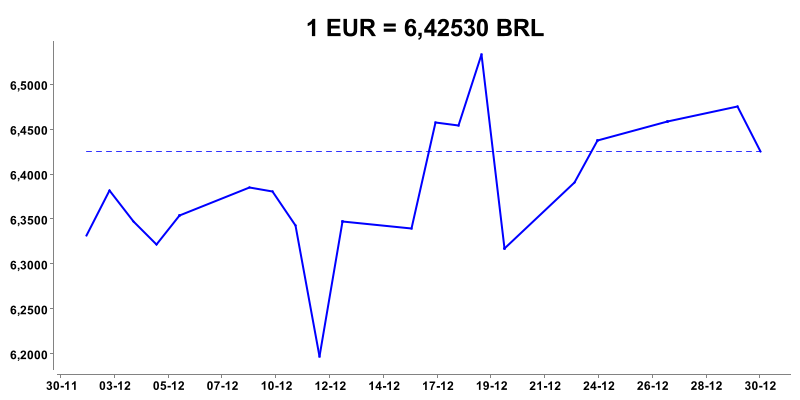
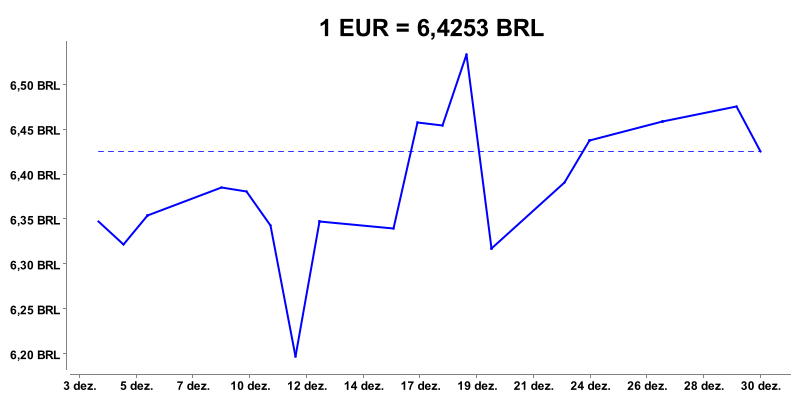
fix: chart service

diff --git a/src/main/java/com/marceloluiz/exchangerate/services/ExchangeRateChartService.java b/src/main/java/com/marceloluiz/exchangerate/services/ExchangeRateChartService.java
@@ -11,6 +11,7 @@ import java.awt.*;
 import java.io.File;
 import java.io.IOException;
 import java.text.SimpleDateFormat;
+import java.util.ArrayList;
 import java.util.Date;
 import java.util.List;
 
@@ -21,53 +22,43 @@ public class ExchangeRateChartService {
     public void generateChart(List<String> rawDates, List<Double> rates, String baseCurrency, String targetCurrency) {
         try {
             List<Date> dates = convertDates(rawDates);
-
-            // Get the most recent exchange rate
             double latestRate = rates.getLast();
 
-            // Create the chart
             XYChart chart = new XYChartBuilder()
                     .width(800)
                     .height(400)
-                    .title("1 " + baseCurrency.toUpperCase() + " = " + String.format("%.5f", latestRate) + " " + targetCurrency.toUpperCase())
+                    .title("1 " + baseCurrency.toUpperCase() + " = " + String.format("%.4f", latestRate) + " " + targetCurrency.toUpperCase())
                     .xAxisTitle("")
                     .yAxisTitle("")
                     .build();
 
-            // Customize the chart style
             chart.getStyler().setLegendVisible(false);
             chart.getStyler().setChartTitleFont(new Font("Arial", Font.BOLD, 24));
             chart.getStyler().setAxisTitlesVisible(true);
-            chart.getStyler().setYAxisDecimalPattern("#,##0.0000"); // Format BRL rates
-            chart.getStyler().setChartBackgroundColor(Color.WHITE); // Plain white background
-            chart.getStyler().setPlotBackgroundColor(Color.WHITE); // Plain white plot background
-            chart.getStyler().setPlotBorderVisible(false); // Remove plot border
-            chart.getStyler().setPlotGridVerticalLinesVisible(false); // Remove vertical gridlines
-            chart.getStyler().setPlotGridHorizontalLinesVisible(false); // Remove horizontal gridlines
-            chart.getStyler().setYAxisTicksVisible(true); // Show Y-axis ticks
-            chart.getStyler().setXAxisTicksVisible(true); // Show X-axis ticks
-            chart.getStyler().setXAxisTickMarkSpacingHint(80); // Control X-axis tick spacing
-            chart.getStyler().setPlotGridLinesVisible(false); // Remove all gridlines
+            chart.getStyler().setYAxisDecimalPattern("#,##0.00 " + targetCurrency.toUpperCase());
+            chart.getStyler().setChartBackgroundColor(Color.WHITE);
+            chart.getStyler().setPlotBackgroundColor(Color.WHITE);
+            chart.getStyler().setPlotBorderVisible(false);
+            chart.getStyler().setPlotGridVerticalLinesVisible(false);
+            chart.getStyler().setPlotGridHorizontalLinesVisible(false);
+            chart.getStyler().setYAxisTicksVisible(true);
+            chart.getStyler().setXAxisTicksVisible(true);
+            chart.getStyler().setXAxisTickMarkSpacingHint(80);
+            chart.getStyler().setPlotGridLinesVisible(false);
 
+            chart.setCustomXAxisTickLabelsFormatter(date -> new SimpleDateFormat("d MMM").format(date));
 
-            // Customize X-axis labels to show only key dates
-            chart.setCustomXAxisTickLabelsFormatter(date -> {
-                return new SimpleDateFormat("dd-MM").format(date); // Format and display all dates
-            });
-
-            // Add a thin dotted horizontal line for the latest rate
             XYSeries horizontalLine = chart.addSeries("Horizontal Line",
                     List.of(dates.getFirst(), dates.getLast()),
                     List.of(latestRate, latestRate));
-            horizontalLine.setMarker(SeriesMarkers.NONE); // No markers
-            horizontalLine.setLineColor(new Color(50, 50, 255)); // Blue color
+            horizontalLine.setMarker(SeriesMarkers.NONE);
+            horizontalLine.setLineColor(new Color(50, 50, 255));
             horizontalLine.setLineStyle(new BasicStroke(1.0f, BasicStroke.CAP_ROUND, BasicStroke.JOIN_ROUND, 1.0f, new float[]{5.0f}, 0.0f)); // Thin dotted line
 
-            // Add the main data series
             XYSeries series = chart.addSeries(baseCurrency.toUpperCase() + " to " + targetCurrency.toUpperCase(), dates, rates);
-            series.setMarker(SeriesMarkers.NONE); // No markers for data points
-            series.setLineColor(Color.BLUE); // Normal blue line
-            series.setLineStyle(new BasicStroke(2.0f)); // Solid line
+            series.setMarker(SeriesMarkers.NONE);
+            series.setLineColor(Color.BLUE);
+            series.setLineStyle(new BasicStroke(2.0f));
 
             createChartsDirectory();
             BitmapEncoder.saveBitmap(chart, "charts/chart", BitmapEncoder.BitmapFormat.PNG);

diff --git a/src/main/java/com/marceloluiz/exchangerate/deserializers/ExchangeRateDeserializer.java b/src/main/java/com/marceloluiz/exchangerate/deserializers/ExchangeRateDeserializer.java
@@ -23,7 +23,7 @@ public class ExchangeRateDeserializer {
         List<ExchangeRateDTO> dataList = new ArrayList<>();
         LocalDate today = LocalDate.now();
 
-        for(int i = 0; i < 30; i++){
+        for(int i = 0; i < 28; i++){
             LocalDate previousDates = today.minusDays(i);
             String json = apiConfiguration.getData(fetchJson(previousDates.toString(), baseCurrency, targetCurrency));
 
